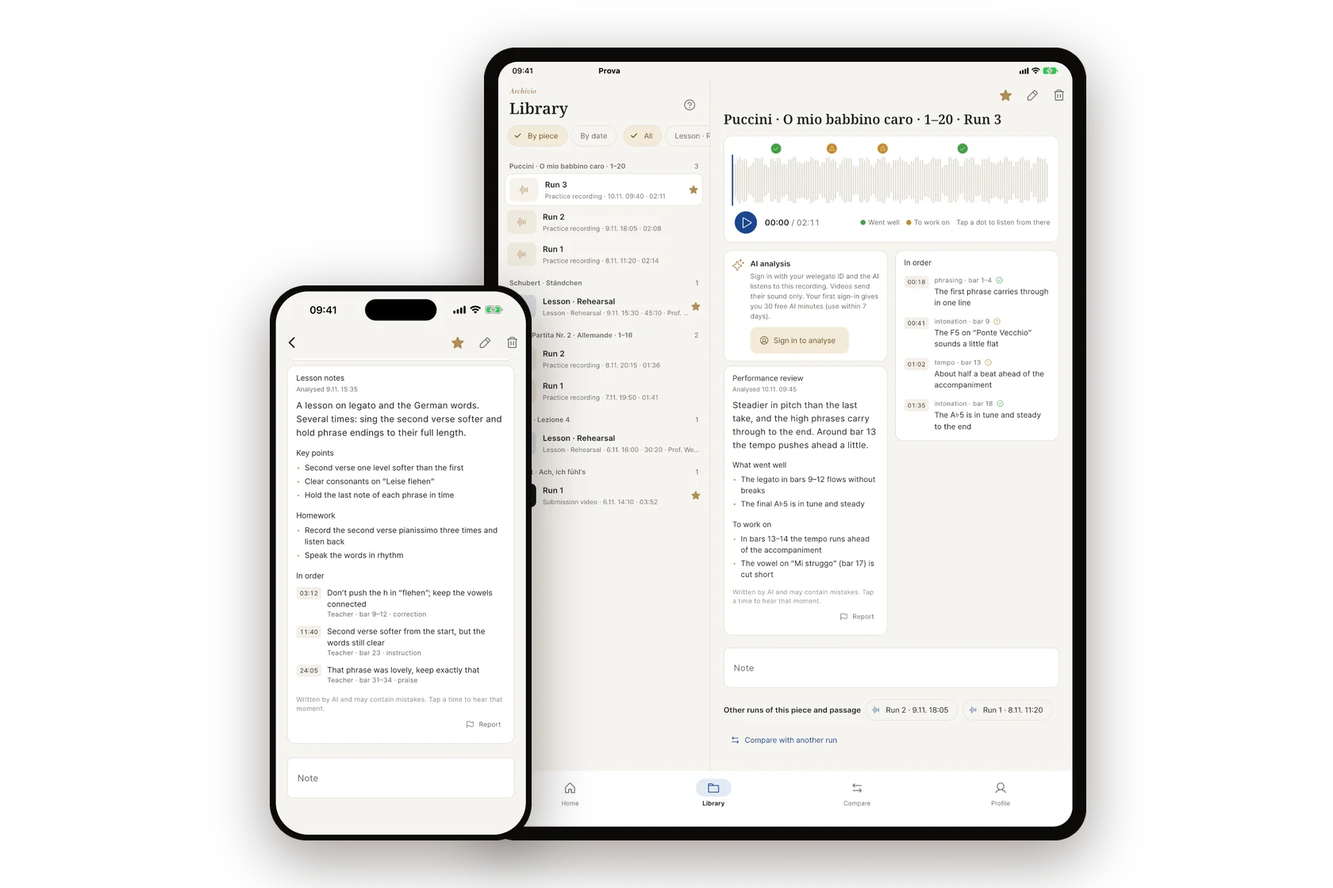
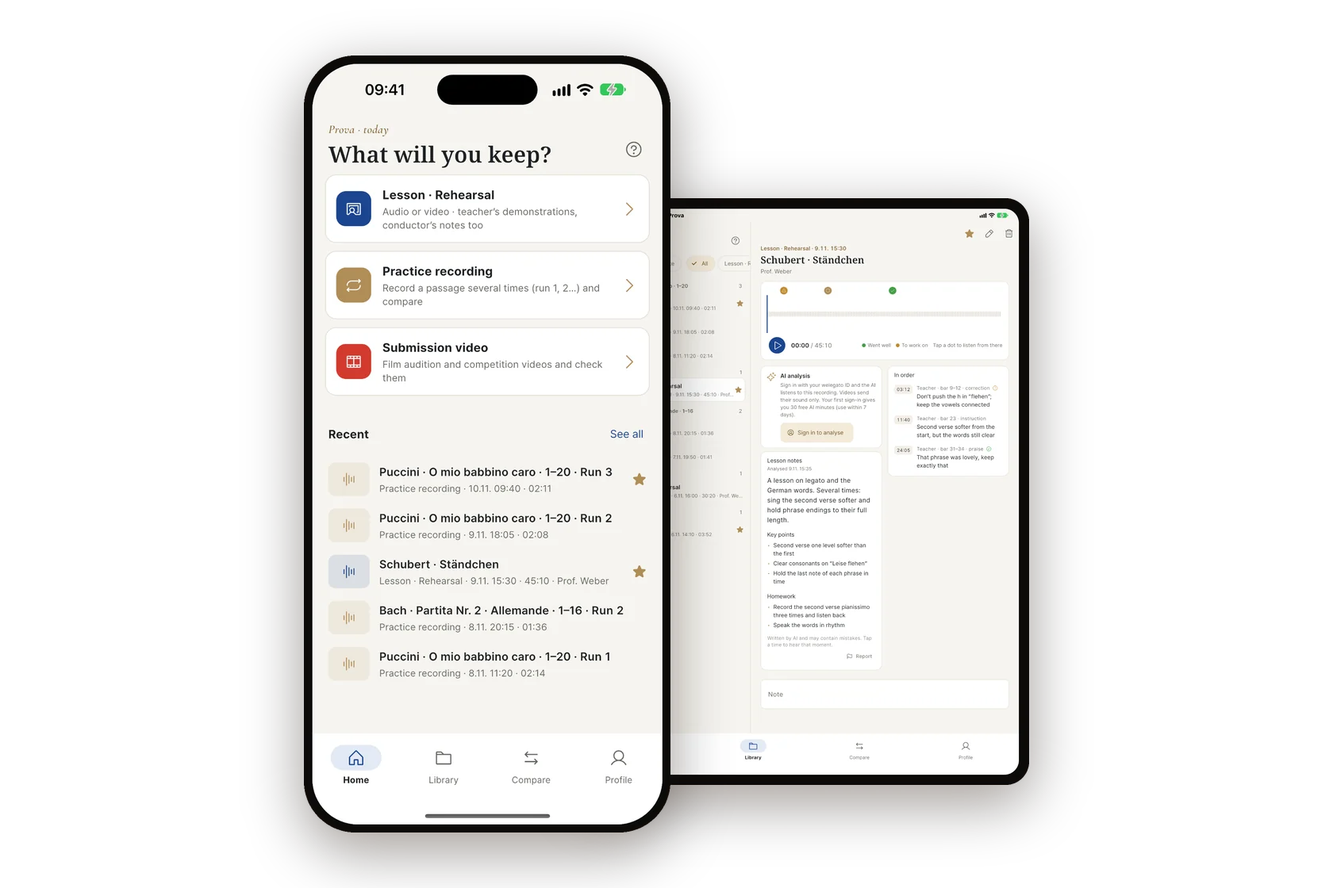
프로바: 폰이 앞으로, 아이패드는 거드는 자리로
대표님 "프로바는 패드보단 휴대폰으로 많이 쓰겠지?"

맞는 말이고 사이트가 그걸 거스르고 있었다. 깊이 보는 세 장면이 전부
아이패드였다. 프로바는 레슨실에 들고 가서 세워 두고 녹음하고 입시 영상을
찍는 앱이라 폰이 기본이다. 렛지가 "태블릿 기본"인 것과 정반대 자리인데
셋 다 아이패드면 "이건 패드 앱인가" 로 읽힌다.

- 첫 화면: 폰이 앞에 크게(980), 아이패드가 뒤에 작게(740)
- 깊이 보는 장면 둘(연습 비교·AI 연주 점검)을 폰 그림으로
- 아이패드는 한 장면만 남기고 "넓은 화면" 이라는 제 자리를 준다.
  목록과 녹음이 좌우로 놓이고, 보관함이 곡과 구간별로 묶이고,
  파형 위의 AI 점을 누르면 그 자리부터 들린다 (ko/en/de)
- 폰은 2.12:1 로 길어 아이패드와 같은 폭을 주면 높이가 780 이 넘는다.
  폰만 262px 로 눌러 글과의 빈자리를 58/59 로 맞췄다
- 좌우 번갈아 놓기를 고쳤다. 렛지 CSS 의 .flip 은 .txt 를 집는데 이
  페이지의 글 칸은 .tx 라 여태 안 걸렸다. 칸 너비도 함께 뒤집는다

Changed region(s): [[0.1857, 0.0312, 0.8357, 1.0]]

diff --git a/prova/index.html b/prova/index.html
@@ -151,8 +151,17 @@ border:1px solid var(--line);background:var(--paper);color:var(--soft);font-size
    사라져 불러오기 전 크기가 0x0 이 되고, 그러면 lazy 가 영영 안 걸린다
    (2026-11-18 에 그렇게 만들었다가 그림이 아예 안 나왔다). */
 .feat .shot{width:100%;height:auto;max-width:370px}
+/* 폰은 세로로 길다(2.12:1). 아이패드와 같은 폭을 주면 높이가 780px 이 넘어
+   글(약 350px)과 다시 벌어진다. 폰만 더 좁게 눌러 높이를 맞춘다. */
+.feat .shot.ph{max-width:262px}
+/* 좌우 번갈아 놓기. 렛지 CSS 의 .flip 은 .txt 를 집는데 이 페이지의 글 칸은
+   .tx 라 여태 걸리지 않았다(가운데 장면도 그림이 오른쪽에 있었다).
+   칸 너비도 함께 뒤집어야 글 칸이 넓어지지 않는다. */
+.feat.flip{grid-template-columns:minmax(0,1.22fr) minmax(0,0.78fr)}
+.feat.flip .tx{order:2}
 @media(max-width:820px){.feat{grid-template-columns:1fr}
-.feat .shot{max-width:460px}}
+.feat .shot{max-width:460px}
+.feat .shot.ph{max-width:300px}}
 
 .pri{max-width:980px;margin:52px auto 0;padding:24px 26px;border:1px solid var(--line);
 border-radius:16px;background:var(--paper);display:grid;grid-template-columns:1fr 1fr;gap:26px}
@@ -167,7 +176,7 @@ border-radius:16px;background:var(--paper);display:grid;grid-template-columns:1f
 <main class="wrap">
 <div data-l="ko" class="hero"><img class="ic" src="/apps/prova.png" srcset="/apps/hi/prova.png 2x" alt="Prova" width="92" height="92"><p class="kicker">VICINO LABS · FAMIGLIA VICINO</p><h1>AI가 내 연주를 듣고 짚어 줍니다</h1><p class="lede">같은 구간을 여러 번 녹음하면 1번째, 2번째로 번호가 붙고, 지난번과 나란히 틀어 봅니다. 제출 영상은 카메라로 찍어 보내기 전에 점검합니다.</p><div class="stores"><a href="https://play.google.com/store/apps/details?id=com.vicinolabs.prova&amp;hl=ko" target="_blank" rel="noopener" aria-label="Google Play"><img src="/badges/google-play-ko-nb.png" alt="Google Play" width="162" height="48" style="height:48px;width:auto;border-radius:10px;border:1px solid #a6a6a6;box-sizing:border-box"></a></div><img class="shotwide" data-hero="1" src="/prova/shots/en/hero.webp" alt="Prova" width="1680" height="1120" fetchpriority="high" decoding="async"></div><div data-l="en" class="hero on"><img class="ic" src="/apps/prova.png" srcset="/apps/hi/prova.png 2x" alt="Prova" width="92" height="92"><p class="kicker">VICINO LABS · FAMIGLIA VICINO</p><h1>The AI listens to your playing</h1><p class="lede">Record the same passage again and it is numbered Run 1, Run 2, then play two of them together. Film the audition video and check it before you send it.</p><div class="stores"><a href="https://play.google.com/store/apps/details?id=com.vicinolabs.prova&amp;hl=en" target="_blank" rel="noopener" aria-label="Google Play"><img src="/badges/google-play-en-nb.png" alt="Google Play" width="162" height="48" style="height:48px;width:auto;border-radius:10px;border:1px solid #a6a6a6;box-sizing:border-box"></a></div><img class="shotwide" data-hero="1" src="/prova/shots/en/hero.webp" alt="Prova" width="1680" height="1120" fetchpriority="high" decoding="async"></div><div data-l="de" class="hero"><img class="ic" src="/apps/prova.png" srcset="/apps/hi/prova.png 2x" alt="Prova" width="92" height="92"><p class="kicker">VICINO LABS · FAMIGLIA VICINO</p><h1>Die KI hört Ihr Spiel</h1><p class="lede">Dieselbe Stelle noch einmal aufnehmen, Durchlauf 1, Durchlauf 2, und beide zusammen abspielen. Das Bewerbungsvideo filmen und vor dem Abschicken prüfen.</p><div class="stores"><a href="https://play.google.com/store/apps/details?id=com.vicinolabs.prova&amp;hl=de" target="_blank" rel="noopener" aria-label="Google Play"><img src="/badges/google-play-de-nb.png" alt="Google Play" width="162" height="48" style="height:48px;width:auto;border-radius:10px;border:1px solid #a6a6a6;box-sizing:border-box"></a></div><img class="shotwide" data-hero="1" src="/prova/shots/en/hero.webp" alt="Prova" width="1680" height="1120" fetchpriority="high" decoding="async"></div>
 <section data-l="ko" class="sum"><div class="tiles"><div class="tile"><img class="shot" data-tile="t1" src="/prova/shots/en/t1.webp" alt="" width="517" height="1097" loading="lazy" decoding="async"><div class="tx"><h3>레슨과 리허설</h3><p>선생님 시범과 지적, 지휘자의 지시까지 소리로 또는 영상으로</p></div></div><div class="tile"><img class="shot" data-tile="t3" src="/prova/shots/en/t3.webp" alt="" width="517" height="1097" loading="lazy" decoding="async"><div class="tx"><h3>AI 레슨 노트</h3><p>짚어 주신 곳, 칭찬, 숙제가 시간과 함께 적힙니다</p></div></div><div class="tile"><img class="shot" data-tile="t4" src="/prova/shots/en/t4.webp" alt="" width="517" height="1097" loading="lazy" decoding="async"><div class="tx"><h3>두 녹음 비교</h3><p>지난번과 나란히 틀어 무엇이 달라졌는지 봅니다</p></div></div><div class="tile"><img class="shot" data-tile="t2" src="/prova/shots/en/t2.webp" alt="" width="517" height="1097" loading="lazy" decoding="async"><div class="tx"><h3>AI 연주 점검</h3><p>음정·박자·템포·음색·셈여림·프레이징을 마디와 시간으로</p></div></div></div><div class="tiles more"><div class="tile"><div class="tx"><h3>제출 영상</h3><p>오디션·콩쿠르 영상을 0.6·1·2배 줌으로 찍고 보내기 전에 점검합니다</p></div></div><div class="tile"><div class="tx"><h3>연습 녹음</h3><p>같은 구간을 여러 번 녹음하면 1번째, 2번째로 번호가 붙습니다</p></div></div><div class="tile"><div class="tx"><h3>녹음하는 동안</h3><p>안드로이드에서는 방해 금지를 켜고, 끝나면 되돌립니다</p></div></div><div class="tile"><div class="tx"><h3>내 성부와 기준음</h3><p>성부와 악기, 기준음을 정해 두면 AI가 그에 맞춰 봅니다</p></div></div></div></section><section data-l="en" class="sum on"><div class="tiles"><div class="tile"><img class="shot" data-tile="t1" src="/prova/shots/en/t1.webp" alt="" width="517" height="1097" loading="lazy" decoding="async"><div class="tx"><h3>Lessons and rehearsals</h3><p>What your teacher plays and corrects, and what the conductor asks for, in sound or on video</p></div></div><div class="tile"><img class="shot" data-tile="t3" src="/prova/shots/en/t3.webp" alt="" width="517" height="1097" loading="lazy" decoding="async"><div class="tx"><h3>AI lesson notes</h3><p>The corrections, the praise and the homework, each with its time</p></div></div><div class="tile"><img class="shot" data-tile="t4" src="/prova/shots/en/t4.webp" alt="" width="517" height="1097" loading="lazy" decoding="async"><div class="tx"><h3>Two runs side by side</h3><p>Play them together and hear what changed</p></div></div><div class="tile"><img class="shot" data-tile="t2" src="/prova/shots/en/t2.webp" alt="" width="517" height="1097" loading="lazy" decoding="async"><div class="tx"><h3>AI listens to the playing</h3><p>Intonation, rhythm, tempo, tone, dynamics and phrasing, by bar and by time</p></div></div></div><div class="tiles more"><div class="tile"><div class="tx"><h3>Audition videos</h3><p>Film at 0.6×, 1× or 2× and check the video before you send it</p></div></div><div class="tile"><div class="tx"><h3>Practice runs</h3><p>Record the same passage again and it is numbered: Run 1, Run 2</p></div></div><div class="tile"><div class="tx"><h3>While you record</h3><p>On Android it turns on Do Not Disturb and puts it back afterwards</p></div></div><div class="tile"><div class="tx"><h3>Your part and your pitch</h3><p>Set the voice or instrument and the reference pitch and the AI judges by that</p></div></div></div></section><section data-l="de" class="sum"><div class="tiles"><div class="tile"><img class="shot" data-tile="t1" src="/prova/shots/en/t1.webp" alt="" width="517" height="1097" loading="lazy" decoding="async"><div class="tx"><h3>Unterricht und Proben</h3><p>Was die Lehrkraft vormacht und korrigiert und was der Dirigent verlangt, als Ton oder Video</p></div></div><div class="tile"><img class="shot" data-tile="t3" src="/prova/shots/en/t3.webp" alt="" width="517" height="1097" loading="lazy" decoding="async"><div class="tx"><h3>KI-Notizen zur Stunde</h3><p>Korrekturen, Lob und Hausaufgaben, jeweils mit der Zeit</p></div></div><div class="tile"><img class="shot" data-tile="t4" src="/prova/shots/en/t4.webp" alt="" width="517" height="1097" loading="lazy" decoding="async"><div class="tx"><h3>Zwei Aufnahmen nebeneinander</h3><p>Zusammen abspielen und hören, was sich geändert hat</p></div></div><div class="tile"><img class="shot" data-tile="t2" src="/prova/shots/en/t2.webp" alt="" width="517" height="1097" loading="lazy" decoding="async"><div class="tx"><h3>Die KI hört das Spiel</h3><p>Intonation, Rhythmus, Tempo, Klang, Dynamik und Phrasierung, nach Takt und Zeit</p></div></div></div><div class="tiles more"><div class="tile"><div class="tx"><h3>Bewerbungsvideos</h3><p>Mit 0,6×, 1× oder 2× filmen und das Video vor dem Abschicken prüfen</p></div></div><div class="tile"><div class="tx"><h3>Übe-Aufnahmen</h3><p>Dieselbe Stelle noch einmal, und sie wird nummeriert: Durchlauf 1, Durchlauf 2</p></div></div><div class="tile"><div class="tx"><h3>Während der Aufnahme</h3><p>Unter Android wird „Nicht stören“ eingeschaltet und danach zurückgestellt</p></div></div><div class="tile"><div class="tx"><h3>Ihre Stimme, Ihr Kammerton</h3><p>Stimmlage oder Instrument und Kammerton einstellen, danach urteilt die KI</p></div></div></div></section>
-<section data-l="ko" class="feat"><div class="tx"><p class="kicker">연습 녹음</p><h2>지난번과 나란히 들어 봅니다</h2><p>같은 구간을 여러 번 녹음하면 1번째, 2번째로 번호가 붙습니다. 두 녹음을 나란히 틀면 무엇이 달라졌는지 귀로 바로 압니다.</p><ul><li>곡과 구간별로 모여 있습니다</li><li>별표를 달아 두면 중요한 녹음만 모아 봅니다</li><li>파형 위의 점을 누르면 그 자리부터 들립니다</li></ul></div><div class="pic"><img class="shot" data-shot="d4" src="/prova/shots/en/d4.webp" alt="지난번과 나란히 들어 봅니다" width="1100" height="1447" loading="lazy" decoding="async"></div></section><section data-l="ko" class="feat flip"><div class="tx"><p class="kicker">AI 연주 점검</p><h2>잘된 곳과 다듬을 곳을 짚습니다</h2><p>AI가 음정, 박자, 템포, 음색, 셈여림, 프레이징, 호흡, 발음을 마디와 시간으로 짚어 줍니다. 초록은 잘된 곳, 주황은 연습할 곳입니다.</p><ul><li>성부와 기준음(440·442·443Hz)을 정해 두면 그에 맞춰 봅니다</li><li>쓰는 시간을 미리 알려 주고, 분석이 실패하면 깎지 않습니다</li><li>영상은 크게 보면서 그 자리의 메모를 함께 봅니다</li></ul></div><div class="pic"><img class="shot" data-shot="d2" src="/prova/shots/en/d2.webp" alt="잘된 곳과 다듬을 곳을 짚습니다" width="1100" height="1447" loading="lazy" decoding="async"></div></section><section data-l="en" class="feat on"><div class="tx"><p class="kicker">Practice runs</p><h2>Hear last time and this time together</h2><p>Record the same passage again and it is numbered: Run 1, Run 2. Play two of them together and your ear tells you what changed.</p><ul><li>Gathered by piece and by passage</li><li>Star the ones that matter and see only those</li><li>Tap a mark on the waveform and it plays from there</li></ul></div><div class="pic"><img class="shot" data-shot="d4" src="/prova/shots/en/d4.webp" alt="Hear last time and this time together" width="1100" height="1447" loading="lazy" decoding="async"></div></section><section data-l="en" class="feat flip on"><div class="tx"><p class="kicker">The AI listens to the playing</p><h2>What went well and what to work on</h2><p>The AI marks intonation, rhythm, tempo, tone, dynamics, phrasing, breathing and diction by bar and by time. Green went well, orange is to work on.</p><ul><li>Set your part and your pitch (440, 442, 443 Hz) and it judges by that</li><li>It tells you the minutes before it starts, and charges nothing if it fails</li><li>Watch the video large with the notes for that moment beside it</li></ul></div><div class="pic"><img class="shot" data-shot="d2" src="/prova/shots/en/d2.webp" alt="What went well and what to work on" width="1100" height="1447" loading="lazy" decoding="async"></div></section><section data-l="de" class="feat"><div class="tx"><p class="kicker">Übe-Aufnahmen</p><h2>Das letzte Mal und dieses Mal zusammen hören</h2><p>Dieselbe Stelle noch einmal aufnehmen, und sie wird nummeriert: Durchlauf 1, Durchlauf 2. Zwei Aufnahmen zusammen abspielen, und das Ohr merkt sofort, was sich geändert hat.</p><ul><li>Nach Stück und Stelle gesammelt</li><li>Wichtige mit einem Stern markieren und nur diese sehen</li><li>Auf eine Marke in der Wellenform tippen, und es läuft von dort</li></ul></div><div class="pic"><img class="shot" data-shot="d4" src="/prova/shots/en/d4.webp" alt="Das letzte Mal und dieses Mal zusammen hören" width="1100" height="1447" loading="lazy" decoding="async"></div></section><section data-l="de" class="feat flip"><div class="tx"><p class="kicker">Die KI hört das Spiel</p><h2>Was gelungen ist und woran Sie arbeiten</h2><p>Die KI markiert Intonation, Rhythmus, Tempo, Klang, Dynamik, Phrasierung, Atem und Aussprache nach Takt und Zeit. Grün ist gelungen, Orange ist zum Üben.</p><ul><li>Stimmlage und Kammerton (440, 442, 443 Hz) einstellen, danach urteilt sie</li><li>Die Minuten stehen vorher da, und bei einem Fehlschlag wird nichts abgezogen</li><li>Das Video groß ansehen, daneben die Notizen zu dieser Stelle</li></ul></div><div class="pic"><img class="shot" data-shot="d2" src="/prova/shots/en/d2.webp" alt="Was gelungen ist und woran Sie arbeiten" width="1100" height="1447" loading="lazy" decoding="async"></div></section>
+<section data-l="ko" class="feat"><div class="tx"><p class="kicker">연습 녹음</p><h2>지난번과 나란히 들어 봅니다</h2><p>같은 구간을 여러 번 녹음하면 1번째, 2번째로 번호가 붙습니다. 두 녹음을 나란히 틀면 무엇이 달라졌는지 귀로 바로 압니다.</p><ul><li>곡과 구간별로 모여 있습니다</li><li>별표를 달아 두면 중요한 녹음만 모아 봅니다</li><li>파형 위의 점을 누르면 그 자리부터 들립니다</li></ul></div><div class="pic"><img class="shot ph" data-shot="dp4" src="/prova/shots/en/dp4.webp" alt="지난번과 나란히 들어 봅니다" width="617" height="1308" loading="lazy" decoding="async"></div></section><section data-l="ko" class="feat flip"><div class="tx"><p class="kicker">AI 연주 점검</p><h2>잘된 곳과 다듬을 곳을 짚습니다</h2><p>AI가 음정, 박자, 템포, 음색, 셈여림, 프레이징, 호흡, 발음을 마디와 시간으로 짚어 줍니다. 초록은 잘된 곳, 주황은 연습할 곳입니다.</p><ul><li>성부와 기준음(440·442·443Hz)을 정해 두면 그에 맞춰 봅니다</li><li>쓰는 시간을 미리 알려 주고, 분석이 실패하면 깎지 않습니다</li><li>영상은 크게 보면서 그 자리의 메모를 함께 봅니다</li></ul></div><div class="pic"><img class="shot ph" data-shot="dp2" src="/prova/shots/en/dp2.webp" alt="잘된 곳과 다듬을 곳을 짚습니다" width="617" height="1308" loading="lazy" decoding="async"></div></section><section data-l="ko" class="feat"><div class="tx"><p class="kicker">넓은 화면</p><h2>아이패드에서는 양쪽으로 펼쳐 봅니다</h2><p>녹음은 폰으로 합니다. 레슨실에 들고 가는 것도, 입시 영상을 찍는 것도 폰입니다. 집에 와서 아이패드로 열면 왼쪽에 목록, 오른쪽에 열린 녹음이 놓입니다.</p><ul><li>보관함이 곡과 구간별로 묶입니다</li><li>파형 위에 AI가 짚은 자리가 점으로 떠서, 누르면 그 자리부터 들립니다</li><li>펼친 폴더블 폰도 같습니다. 접으면 보던 녹음이 그대로 남습니다</li></ul></div><div class="pic"><img class="shot" data-shot="dwide" src="/prova/shots/en/dwide.webp" alt="아이패드에서는 양쪽으로 펼쳐 봅니다" width="1098" height="1447" loading="lazy" decoding="async"></div></section><section data-l="en" class="feat on"><div class="tx"><p class="kicker">Practice runs</p><h2>Hear last time and this time together</h2><p>Record the same passage again and it is numbered: Run 1, Run 2. Play two of them together and your ear tells you what changed.</p><ul><li>Gathered by piece and by passage</li><li>Star the ones that matter and see only those</li><li>Tap a mark on the waveform and it plays from there</li></ul></div><div class="pic"><img class="shot ph" data-shot="dp4" src="/prova/shots/en/dp4.webp" alt="Hear last time and this time together" width="617" height="1308" loading="lazy" decoding="async"></div></section><section data-l="en" class="feat flip on"><div class="tx"><p class="kicker">The AI listens to the playing</p><h2>What went well and what to work on</h2><p>The AI marks intonation, rhythm, tempo, tone, dynamics, phrasing, breathing and diction by bar and by time. Green went well, orange is to work on.</p><ul><li>Set your part and your pitch (440, 442, 443 Hz) and it judges by that</li><li>It tells you the minutes before it starts, and charges nothing if it fails</li><li>Watch the video large with the notes for that moment beside it</li></ul></div><div class="pic"><img class="shot ph" data-shot="dp2" src="/prova/shots/en/dp2.webp" alt="What went well and what to work on" width="617" height="1308" loading="lazy" decoding="async"></div></section><section data-l="en" class="feat on"><div class="tx"><p class="kicker">A wide screen</p><h2>On an iPad it opens out to both sides</h2><p>The recording happens on the phone. The phone is what goes to the lesson, and what films the audition. Open it on the iPad at home and the list sits on the left, the take on the right.</p><ul><li>The library groups takes by piece and by passage</li><li>The AI's marks sit as dots above the waveform; tap one and it plays from there</li><li>An unfolded foldable is the same. Fold it shut and the open take stays</li></ul></div><div class="pic"><img class="shot" data-shot="dwide" src="/prova/shots/en/dwide.webp" alt="On an iPad it opens out to both sides" width="1098" height="1447" loading="lazy" decoding="async"></div></section><section data-l="de" class="feat"><div class="tx"><p class="kicker">Übe-Aufnahmen</p><h2>Das letzte Mal und dieses Mal zusammen hören</h2><p>Dieselbe Stelle noch einmal aufnehmen, und sie wird nummeriert: Durchlauf 1, Durchlauf 2. Zwei Aufnahmen zusammen abspielen, und das Ohr merkt sofort, was sich geändert hat.</p><ul><li>Nach Stück und Stelle gesammelt</li><li>Wichtige mit einem Stern markieren und nur diese sehen</li><li>Auf eine Marke in der Wellenform tippen, und es läuft von dort</li></ul></div><div class="pic"><img class="shot ph" data-shot="dp4" src="/prova/shots/en/dp4.webp" alt="Das letzte Mal und dieses Mal zusammen hören" width="617" height="1308" loading="lazy" decoding="async"></div></section><section data-l="de" class="feat flip"><div class="tx"><p class="kicker">Die KI hört das Spiel</p><h2>Was gelungen ist und woran Sie arbeiten</h2><p>Die KI markiert Intonation, Rhythmus, Tempo, Klang, Dynamik, Phrasierung, Atem und Aussprache nach Takt und Zeit. Grün ist gelungen, Orange ist zum Üben.</p><ul><li>Stimmlage und Kammerton (440, 442, 443 Hz) einstellen, danach urteilt sie</li><li>Die Minuten stehen vorher da, und bei einem Fehlschlag wird nichts abgezogen</li><li>Das Video groß ansehen, daneben die Notizen zu dieser Stelle</li></ul></div><div class="pic"><img class="shot ph" data-shot="dp2" src="/prova/shots/en/dp2.webp" alt="Was gelungen ist und woran Sie arbeiten" width="617" height="1308" loading="lazy" decoding="async"></div></section><section data-l="de" class="feat"><div class="tx"><p class="kicker">Großer Bildschirm</p><h2>Auf dem iPad klappt es nach beiden Seiten auf</h2><p>Aufgenommen wird mit dem Telefon. Das Telefon geht mit in die Stunde, und es filmt das Vorspiel. Zu Hause auf dem iPad geöffnet, steht links die Liste und rechts die offene Aufnahme.</p><ul><li>Das Archiv gruppiert nach Stück und Stelle</li><li>Die Marken der KI sitzen als Punkte über der Wellenform; ein Tippen, und es läuft von dort</li><li>Ein aufgeklapptes Foldable genauso. Zugeklappt bleibt die offene Aufnahme stehen</li></ul></div><div class="pic"><img class="shot" data-shot="dwide" src="/prova/shots/en/dwide.webp" alt="Auf dem iPad klappt es nach beiden Seiten auf" width="1098" height="1447" loading="lazy" decoding="async"></div></section>
 <section data-l="ko" class="pri"><div><h2>녹음은 이 기기에 남습니다</h2><p>녹음과 영상은 기기에 저장됩니다. AI 분석에는 소리만 보내고, 분석이 끝나면 지웁니다. 영상의 화면은 보내지 않습니다.</p></div><div><h2>녹음하기 전에</h2><p>레슨을 녹음할 때는 선생님과 함께 녹음되는 분들의 동의를 먼저 받아 주세요. 18세 미만이면 보호자의 동의도 필요합니다. 앱이 녹음을 시작하기 전에 확인합니다.</p></div></section><section data-l="en" class="pri on"><div><h2>The recordings stay on your device</h2><p>Recordings and videos are kept on the device. Only the sound goes out for the AI analysis, and it is deleted when the analysis is done. The picture never leaves the device.</p></div><div><h2>Before you record</h2><p>Ask the teacher, and everyone else who will be recorded, before you record a lesson. For anyone under 18 a parent has to agree as well. Prova asks you to confirm this before it starts.</p></div></section><section data-l="de" class="pri"><div><h2>Die Aufnahmen bleiben auf Ihrem Gerät</h2><p>Aufnahmen und Videos liegen auf dem Gerät. Für die KI-Analyse geht nur der Ton hinaus, und er wird nach der Analyse gelöscht. Das Bild verlässt das Gerät nicht.</p></div><div><h2>Vor der Aufnahme</h2><p>Holen Sie vor einer Aufnahme in der Stunde das Einverständnis der Lehrkraft und aller ein, die mit aufgenommen werden. Bei unter 18-Jährigen muss auch ein Elternteil einverstanden sein. Prova fragt vor dem Start danach.</p></div></section>
 <div data-l="ko" class="getit"><p>녹음과 듣기, 비교는 로그인 없이 씁니다. AI 분석과 클라우드는 위레가토 아이디로 로그인해서 씁니다. 처음 로그인하시면 AI 30분이 7일 동안 열립니다.</p><div class="stores"><a href="https://play.google.com/store/apps/details?id=com.vicinolabs.prova&amp;hl=ko" target="_blank" rel="noopener" aria-label="Google Play"><img src="/badges/google-play-ko-nb.png" alt="Google Play" width="162" height="48" style="height:48px;width:auto;border-radius:10px;border:1px solid #a6a6a6;box-sizing:border-box"></a></div><a class="fam" href="/ko/famiglia/">앱들이 함께 일하는 방법 →</a></div><div data-l="en" class="getit on"><p>Recording, listening and comparing need no account. The AI analysis and the cloud work when you sign in with your welegato ID. Your first sign-in opens 30 AI minutes for seven days.</p><div class="stores"><a href="https://play.google.com/store/apps/details?id=com.vicinolabs.prova&amp;hl=en" target="_blank" rel="noopener" aria-label="Google Play"><img src="/badges/google-play-en-nb.png" alt="Google Play" width="162" height="48" style="height:48px;width:auto;border-radius:10px;border:1px solid #a6a6a6;box-sizing:border-box"></a></div><a class="fam" href="/en/famiglia/">How the apps work together →</a></div><div data-l="de" class="getit"><p>Aufnehmen, Anhören und Vergleichen brauchen kein Konto. Die KI-Analyse und die Cloud nutzen Sie mit Ihrer welegato-ID. Die erste Anmeldung öffnet 30 KI-Minuten für sieben Tage.</p><div class="stores"><a href="https://play.google.com/store/apps/details?id=com.vicinolabs.prova&amp;hl=de" target="_blank" rel="noopener" aria-label="Google Play"><img src="/badges/google-play-de-nb.png" alt="Google Play" width="162" height="48" style="height:48px;width:auto;border-radius:10px;border:1px solid #a6a6a6;box-sizing:border-box"></a></div><a class="fam" href="/famiglia/">Wie die Apps zusammenarbeiten →</a></div>
 </main>

diff --git a/prova_site.py b/prova_site.py
@@ -32,8 +32,22 @@ APPLE = ""   # 출시 때 App Store 주소
 # "그런 차별이 없으면 렛지만 사면 되지 프로바가 쓸모없어져").
 # 레슨 녹음과 AI 레슨 노트는 렛지에도 있다. 그건 여덟 칸 요약에 두고
 # 여기에는 연습 비교(4)와 AI 연주 점검(2)만 둔다. 촬영은 화면 그림이
-# 오는 대로 세 번째로 넣는다.
-DEEP = (4, 2)
+# 오는 대로 넣는다.
+#
+# 9 는 그 둘 뒤에 붙는 "넓은 화면" 장면이다. 번호가 아니라 자리표다.
+DEEP = (4, 2, 9)
+
+# 장면마다 어떤 기기로 보여 줄지. **프로바는 폰으로 쓰는 앱이다**
+# (대표님 2026-11-18 "프로바는 패드보단 휴대폰으로 많이 쓰겠지?").
+# 레슨실에서 폰을 세워 두고 녹음하고, 입시 영상도 폰으로 찍는다.
+# 렛지가 "태블릿 기본"인 것과 정반대 자리라, 셋 다 아이패드로 두면
+# "이건 패드 앱인가" 로 읽힌다. 아이패드는 **거드는 자리** 하나만 둔다.
+#   (파일이름, 덧붙일 class, 폭, 높이)
+SHOT = {
+    4: ("dp4", " ph", 617, 1308),
+    2: ("dp2", " ph", 617, 1308),
+    9: ("dwide", "", 1098, 1447),
+}
 
 CSS = leggii_site.CSS + """
 /* 요약 판: 그림이 있는 칸과 글만 있는 칸이 섞인다. 늘리지 않고 칸마다
@@ -76,8 +90,17 @@ border:1px solid var(--line);background:var(--paper);color:var(--soft);font-size
    사라져 불러오기 전 크기가 0x0 이 되고, 그러면 lazy 가 영영 안 걸린다
    (2026-11-18 에 그렇게 만들었다가 그림이 아예 안 나왔다). */
 .feat .shot{width:100%;height:auto;max-width:370px}
+/* 폰은 세로로 길다(2.12:1). 아이패드와 같은 폭을 주면 높이가 780px 이 넘어
+   글(약 350px)과 다시 벌어진다. 폰만 더 좁게 눌러 높이를 맞춘다. */
+.feat .shot.ph{max-width:262px}
+/* 좌우 번갈아 놓기. 렛지 CSS 의 .flip 은 .txt 를 집는데 이 페이지의 글 칸은
+   .tx 라 여태 걸리지 않았다(가운데 장면도 그림이 오른쪽에 있었다).
+   칸 너비도 함께 뒤집어야 글 칸이 넓어지지 않는다. */
+.feat.flip{grid-template-columns:minmax(0,1.22fr) minmax(0,0.78fr)}
+.feat.flip .tx{order:2}
 @media(max-width:820px){.feat{grid-template-columns:1fr}
-.feat .shot{max-width:460px}}
+.feat .shot{max-width:460px}
+.feat .shot.ph{max-width:300px}}
 
 .pri{max-width:980px;margin:52px auto 0;padding:24px 26px;border:1px solid var(--line);
 border-radius:16px;background:var(--paper);display:grid;grid-template-columns:1fr 1fr;gap:26px}
@@ -118,7 +141,12 @@ T = {
    "AI가 음정, 박자, 템포, 음색, 셈여림, 프레이징, 호흡, 발음을 마디와 시간으로 짚어 줍니다. 초록은 잘된 곳, 주황은 연습할 곳입니다.",
    ["성부와 기준음(440·442·443Hz)을 정해 두면 그에 맞춰 봅니다",
     "쓰는 시간을 미리 알려 주고, 분석이 실패하면 깎지 않습니다",
-    "영상은 크게 보면서 그 자리의 메모를 함께 봅니다"])],
+    "영상은 크게 보면서 그 자리의 메모를 함께 봅니다"]),
+  (9, "넓은 화면", "아이패드에서는 양쪽으로 펼쳐 봅니다",
+   "녹음은 폰으로 합니다. 레슨실에 들고 가는 것도, 입시 영상을 찍는 것도 폰입니다. 집에 와서 아이패드로 열면 왼쪽에 목록, 오른쪽에 열린 녹음이 놓입니다.",
+   ["보관함이 곡과 구간별로 묶입니다",
+    "파형 위에 AI가 짚은 자리가 점으로 떠서, 누르면 그 자리부터 들립니다",
+    "펼친 폴더블 폰도 같습니다. 접으면 보던 녹음이 그대로 남습니다"])],
  "pri_h": "녹음은 이 기기에 남습니다",
  "pri_p": "녹음과 영상은 기기에 저장됩니다. AI 분석에는 소리만 보내고, 분석이 끝나면 지웁니다. 영상의 화면은 보내지 않습니다.",
  "con_h": "녹음하기 전에",
@@ -159,7 +187,12 @@ T = {
    "The AI marks intonation, rhythm, tempo, tone, dynamics, phrasing, breathing and diction by bar and by time. Green went well, orange is to work on.",
    ["Set your part and your pitch (440, 442, 443 Hz) and it judges by that",
     "It tells you the minutes before it starts, and charges nothing if it fails",
-    "Watch the video large with the notes for that moment beside it"])],
+    "Watch the video large with the notes for that moment beside it"]),
+  (9, "A wide screen", "On an iPad it opens out to both sides",
+   "The recording happens on the phone. The phone is what goes to the lesson, and what films the audition. Open it on the iPad at home and the list sits on the left, the take on the right.",
+   ["The library groups takes by piece and by passage",
+    "The AI's marks sit as dots above the waveform; tap one and it plays from there",
+    "An unfolded foldable is the same. Fold it shut and the open take stays"])],
  "pri_h": "The recordings stay on your device",
  "pri_p": "Recordings and videos are kept on the device. Only the sound goes out for the AI analysis, and it is deleted when the analysis is done. The picture never leaves the device.",
  "con_h": "Before you record",
@@ -200,7 +233,12 @@ T = {
    "Die KI markiert Intonation, Rhythmus, Tempo, Klang, Dynamik, Phrasierung, Atem und Aussprache nach Takt und Zeit. Grün ist gelungen, Orange ist zum Üben.",
    ["Stimmlage und Kammerton (440, 442, 443 Hz) einstellen, danach urteilt sie",
     "Die Minuten stehen vorher da, und bei einem Fehlschlag wird nichts abgezogen",
-    "Das Video groß ansehen, daneben die Notizen zu dieser Stelle"])],
+    "Das Video groß ansehen, daneben die Notizen zu dieser Stelle"]),
+  (9, "Großer Bildschirm", "Auf dem iPad klappt es nach beiden Seiten auf",
+   "Aufgenommen wird mit dem Telefon. Das Telefon geht mit in die Stunde, und es filmt das Vorspiel. Zu Hause auf dem iPad geöffnet, steht links die Liste und rechts die offene Aufnahme.",
+   ["Das Archiv gruppiert nach Stück und Stelle",
+    "Die Marken der KI sitzen als Punkte über der Wellenform; ein Tippen, und es läuft von dort",
+    "Ein aufgeklapptes Foldable genauso. Zugeklappt bleibt die offene Aufnahme stehen"])],
  "pri_h": "Die Aufnahmen bleiben auf Ihrem Gerät",
  "pri_p": "Aufnahmen und Videos liegen auf dem Gerät. Für die KI-Analyse geht nur der Ton hinaus, und er wird nach der Analyse gelöscht. Das Bild verlässt das Gerät nicht.",
  "con_h": "Vor der Aufnahme",
@@ -297,14 +335,19 @@ def _tiles(l):
             f'<div class="tiles more">{"".join(small)}</div></section>')
 
 
+def _shot(num, head):
+    name, cls, w, h = SHOT[num]
+    return (f'<img class="shot{cls}" data-shot="{name}" src="/prova/shots/en/{name}.webp" '
+            f'alt="{head}" width="{w}" height="{h}" loading="lazy" decoding="async">')
+
+
 def _feat(l, i, num, kicker, head, body, bullets):
     lis = "".join(f"<li>{b}</li>" for b in bullets)
     flip = " flip" if i % 2 else ""
     return (f'<section data-l="{l}" class="feat{flip}{_on(l)}">'
             f'<div class="tx"><p class="kicker">{kicker}</p><h2>{head}</h2>'
             f'<p>{body}</p><ul>{lis}</ul></div>'
-            f'<div class="pic"><img class="shot" data-shot="d{num}" src="/prova/shots/en/d{num}.webp" '
-            f'alt="{head}" width="1100" height="1447" loading="lazy" decoding="async"></div></section>')
+            f'<div class="pic">{_shot(num, head)}</div></section>')
 
 
 def page():

diff --git a/prova_shots.py b/prova_shots.py
@@ -81,16 +81,24 @@ def place(canvas, dev, x, y, radius):
 
 
 def hero(lang):
-    """아이패드 옆에 아이폰. 가로로 넓은 첫 그림."""
-    pad = device(f"{SRC}/{lang}/ipad/screenshot-2.png", IPAD, 1000, IPAD_R)
-    pho = device(f"{SRC}/{lang}/iphone/screenshot-3.png", IPHONE, 700, IPHONE_R)
+    """폰이 앞에 크게, 아이패드가 뒤에 작게.
+
+    프로바는 **폰으로 쓰는 앱**이다(대표님 2026-11-18 "프로바는 패드보단
+    휴대폰으로 많이 쓰겠지?"). 레슨실에서 폰을 세워 두고 녹음하고, 입시
+    영상도 폰으로 찍는다. 아이패드는 집에 와서 넓게 펼쳐 볼 때다.
+    렛지와 정반대인 자리라 첫 그림부터 그렇게 보여야 한다.
+    """
+    pho = device(f"{SRC}/{lang}/iphone/screenshot-1.png", IPHONE, 980, IPHONE_R)
+    pad = device(f"{SRC}/{lang}/ipad/screenshot-3.png", IPAD, 740, IPAD_R)
     W, H = 1680, 1120
     c = Image.new("RGBA", (W, H), (0, 0, 0, 0))
-    px = (W - pad.width) // 2 + 150
-    # 줄인 뒤 비율에 맞춰 그림자 반경도 줄인다
-    place(c, pad, px, (H - pad.height) // 2, round(IPAD_R * pad.height / (IPAD[3] - IPAD[1])))
-    place(c, pho, px - pho.width + 60, H - pho.height - 60,
-          round(IPHONE_R * pho.height / (IPHONE[3] - IPHONE[1])))
+    overlap = 110
+    x0 = (W - (pho.width + pad.width - overlap)) // 2
+    py = (H - pho.height) // 2
+    # 줄인 뒤 비율에 맞춰 그림자 반경도 줄인다. 아이패드를 먼저 놓아 뒤로 보낸다.
+    place(c, pad, x0 + pho.width - overlap, py + pho.height - pad.height - 60,
+          round(IPAD_R * pad.height / (IPAD[3] - IPAD[1])))
+    place(c, pho, x0, py, round(IPHONE_R * pho.height / (IPHONE[3] - IPHONE[1])))
     return c
 
 
@@ -105,10 +113,15 @@ def build():
         d = os.path.join(OUT, lang)
         os.makedirs(d, exist_ok=True)
         hero(lang).save(os.path.join(d, "hero.webp"), quality=86, method=6)
-        # 깊이 보는 세 장면: 2 AI 연주 점검 · 3 AI 레슨 노트 · 4 두 녹음 비교
-        for n in (2, 3, 4):
-            crop(lang, ("ipad", n), IPAD, 1100, IPAD_R).save(
-                os.path.join(d, f"d{n}.webp"), quality=84, method=6)
+        # 깊이 보는 장면. 프로바에만 있는 것 둘은 **폰**으로 보여 준다.
+        #   dp4 두 녹음 비교 · dp2 AI 연주 점검
+        for n in (2, 4):
+            crop(lang, ("iphone", n), IPHONE, 620, IPHONE_R).save(
+                os.path.join(d, f"dp{n}.webp"), quality=84, method=6)
+        # 아이패드는 한 장면만. 넓은 화면에서 목록과 녹음이 나란히 놓이는 자리다.
+        # 보관함 그림(5번)이 더 맞지만 기기가 아래로 잘려 있어 1번을 쓴다.
+        crop(lang, ("ipad", 1), IPAD, 1100, IPAD_R).save(
+            os.path.join(d, "dwide.webp"), quality=84, method=6)
         # 요약 판 타일: 아이폰 네 장면
         for n in (1, 2, 3, 4):
             crop(lang, ("iphone", n), IPHONE, 520, IPHONE_R).save(
